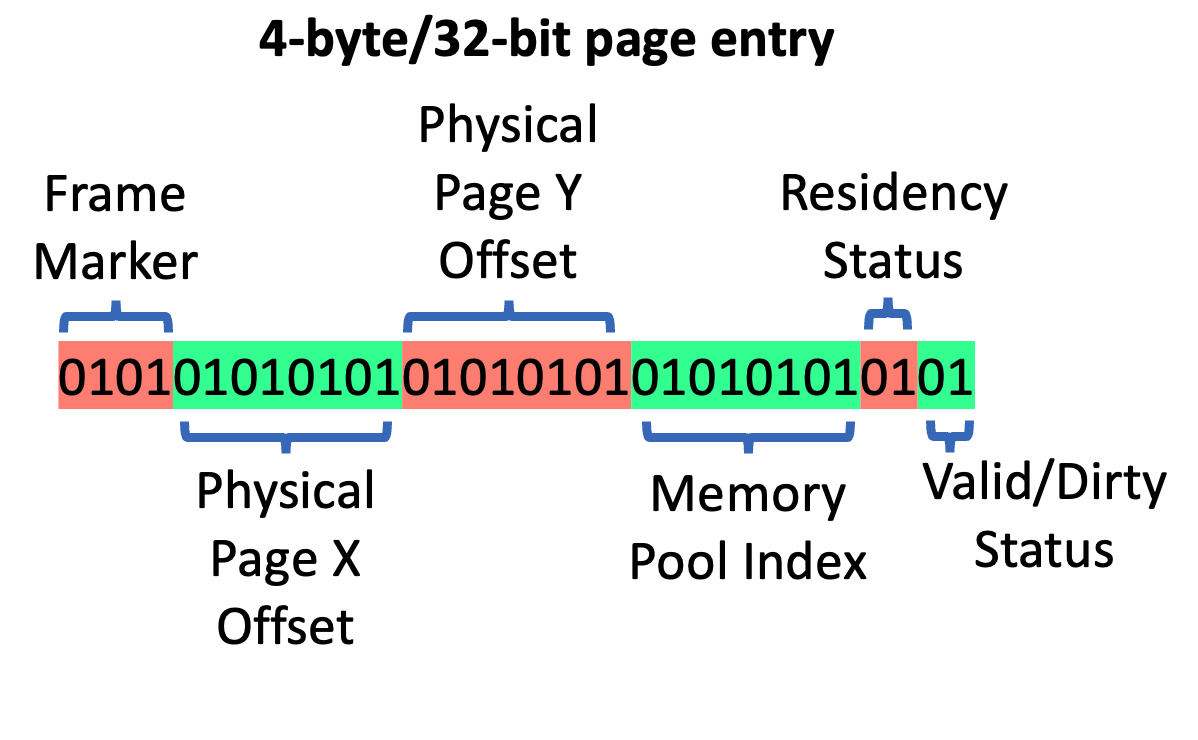
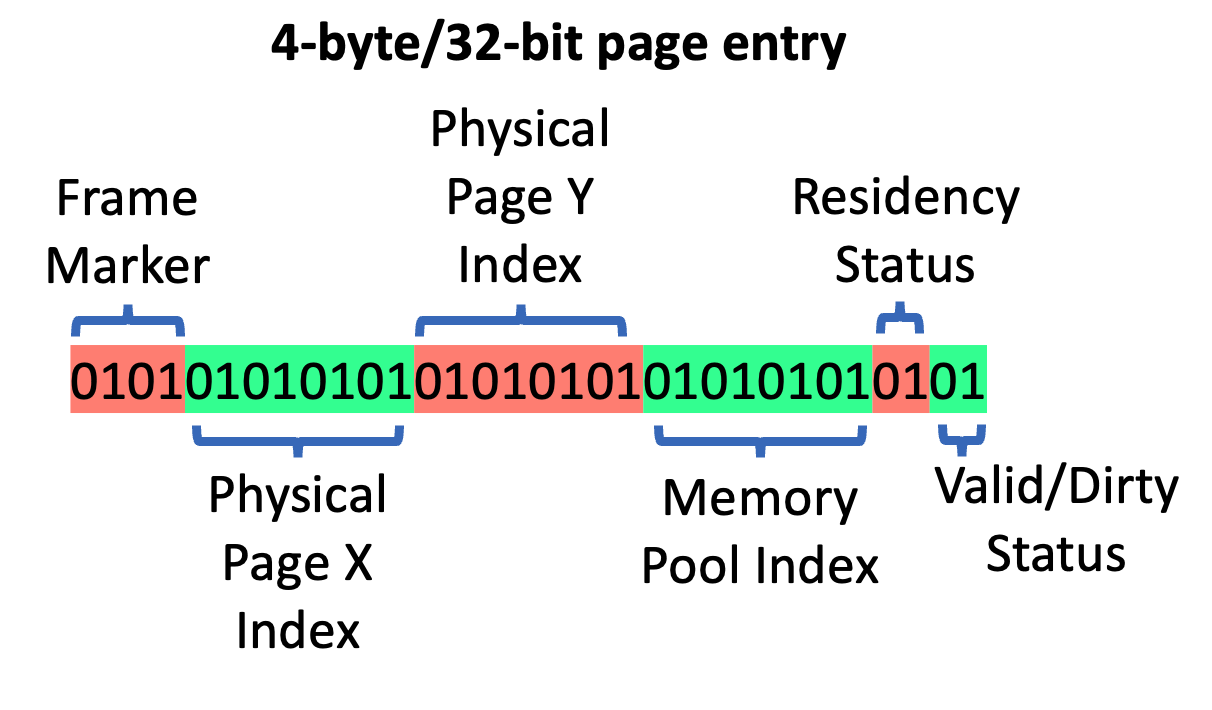
Updates to SVSM article

Changed region(s): [[0.0309, 0.1239, 0.9883, 0.9296], [0.2162, 0.0, 0.7104, 0.093]]

diff --git a/rendering/stratusgfx/svsm.md b/rendering/stratusgfx/svsm.md
@@ -10,8 +10,8 @@ use_math: true
 
 The top is the Bistro scene rendered with multiple 8K resolution sparse virtual shadow maps. The bottom is a visualization of the physical memory pages (squares) where each color represents a different shadow clipmap/cascade.
 
-**This is a WIP/rough draft!**
-**Last edited: Sept 24, 2023.**
+**This is a WIP/rough draft! Feedback is greatly appreciated.**
+**Last edited: Oct 1, 2023**
 
 # Collaborators
 
@@ -26,7 +26,7 @@ This was developed in loose collaboration with:
 
 # Introduction
 
-This post goes through the high-level steps needed to create a sparse virtual memory system for realtime shadows. This was inspired by Unreal Engine 5's virtual shadow maps. Directional lights are the only ones considered here, but it should be possible to extend the system to support other light types such as point or spotlights. 
+This post goes through the high-level steps needed to create a sparse virtual memory system for realtime shadows. This was inspired by Unreal Engine 5's virtual shadow maps. Directional lights are the only ones considered here, but it is possible to extend the system to support other light types such as point or spotlights. 
 
 The directional shadows make use of clipmaps for incremental updating of the shadowmaps and handling multiple different cascades. Each clipmap cascade can be set to very high virtual resolutions such as 4K, 8K or 16K.
 
@@ -54,6 +54,10 @@ The motivations for using this approach fall into two categories:
 An important aspect mentioned in the introduction is that if a cascade doesn't have much geometry inside of it, processing overhead and memory footprint for that cascade can be reduced close to 0. This opens the possibility of maintaining 10, 15 or even 20 cascades. In addition, if the virtual resolution is set to 8K or 16K, every cascade gets its own 8K or 16K virtual shadow map. This allows for high quality, consistent shadows that cover huge world distances.
 
 Standard cascaded shadow maps (CSMs) struggle to handle this without heavy optimization. In many ways sparse virtual shadow maps are an extension of CSMs with the optimizations required to improve memory usage, increase resolution, cover even larger max distances, and avoid duplicate shadow reprocessing for data that hasn't changed since last frame.
+
+### Other Light Types
+
+Even though this article focuses on directional lights, it is possible to virtualize other light types such as point or spotlights. To do this, the shadow maps for each light which use fixed texture allocations will be replaced with virtual shadow textures that are mostly sparse. For point lights this would result in 6 virtual textures (virtual cubemap) each with virtual mipmaps while spotlights would only need 1 virtual texture with virtual mipmaps. Physical backing memory for the virtual shadow textures of all the different light types can come from the same shared texture memory pool.
 
 # Foundations
 
@@ -87,15 +91,19 @@ Directional light shadow maps are represented by a series of expanding rings aro
 
 A clipmap is an incrementally updatable, fixed-size texture region that is meant to represent a subset of a full texture's mipmap chain. A clipmap is defined by a clip origin and a clip size. Together these two determine which part of the full texture that the clipmap currently represents. As the clip origin shifts from frame to frame, new data is streamed in and old data streamed out along the borders of the texture. 
 
-Each clipmap ring is required to cover double the area of the previous clipmap ring meaning that each successive ring is coarser/lower resolution than the previous since the memory footprint remains the same. Because coarser clipmap rings fully overlap finer clipmap rings, we can imagine them as being a version of texture mipmapping.
+Each clipmap ring is required to cover double the area of the previous clipmap ring meaning that each successive ring is coarser/lower resolution than the previous since the memory footprint remains the same for each ring regardless of how much area they cover. Because coarser clipmap rings fully overlap finer clipmap rings, we can conceptualize them as being a version of texture mipmapping.
 
 ![clipmap](/assets/v0.11/svsms/VSM_Clipmap.png)
 
-When sampling from a clipmap, we select the most detailed (lowest ring/cascade) that's available. If not available, we clip to the next best fit.
+![clipmap2](/assets/v0.11/svsms/VSM_Clipmaps_As_Mipmaps.png)
+
+When sampling from a clipmap, we select the most detailed (lowest ring/cascade) that's available. If not available, we clip to the next best fit. Later on this article will discuss the configurable shadow render budget which can lead to situations where we have to fallback to lower resolution data while higher resolution data is processed over multiple frames.
 
 For shadow mapping, we can imagine that the "true" shadow map is something massive like 128K x 128K or more. As the player camera moves around, we will shift the clip origin to match the new camera location and update only the parts that changed.
 
 ![clipshift](/assets/v0.11/svsms/VSM_ClipOrigin.png)
+
+The arrow in the above picture is a 2-component motion vector. If converted to NDC space, it can be used to project from current frame to previous frame or vice versa in order to determine which virtual pages have changed.
 
 ![clipupdate](/assets/v0.11/svsms/VSM_ClipUpdate.png)
 
@@ -226,7 +234,7 @@ Here is a possible implementation of a page table entry (32 bits per entry):
 
 **Frame Marker:** Used for marking the page table entry as in use. 0 means unmarked, 1 means marked this frame, and anything greater than 1 means it was marked a few frames ago but is not currently needed for this frame. This is useful if you want to add a slight frame delay before evicting something from the cache.
 
-**Physical Page Offset X/Y:** Points to the lower-left corner of the physical page in memory. Reconstructing the texel index is done using `Physical Page Offset X/Y * ivec2(128)` where 128 represents texels per page in the x/y direction.
+**Physical Page Index X/Y:** Points to the lower-left corner of the physical page in memory. Reconstructing the lower-left physical texel from the page index is done using `Physical Page Index X/Y * ivec2(128)` where 128 represents texels per page in the x/y direction.
 
 **Memory Pool Index:** This technique works by allocating physical memory from a series of either sparse or shared texture memory pools. In the case of sparse textures, the API allows for making pages resident or non-resident and doing sparse texture binding. In the case of shared texture memory, fixed-size textures are allocated from and returned to the shared texture pool as needed. The memory pool index can either refer to the array index (when using sparse texture arrays) or the texture index (when using separate textures pulled from a shared pool).
 
@@ -584,7 +592,7 @@ In the following gif the lower left shows the first memory pool as it pulls page
 
 Each implementation will need to decide how to deal with the case of a memory pool running out of memory during a given frame. It's possible that more pages will be requested than a single memory pool can handle. One approach would be to trigger a page fault like normal, but the CPU could then allocate a whole new block to pull memory from. Another approach would be to evict pages corresponding to coarser cascades and prioritize putting them in the cascades closer to the camera.
 
-The decision for when to evict a page from the cache is also configurable. The page table has enough bits to count to 15 frames as a delay for evicting a page from the cache, but by default it marks pages free as soon as they are no longer required for a given frame (no delay). The only reason to keep pages in the cache for longer than 1 frame when they aren't being requested is for the situation where the camera pans around, then turns back to face where it was originally facing. In this case the pages it was looking at originally would still be around and not have to be rendered.
+The decision for when to evict a page from the cache is also configurable. The page table has enough bits to count to 15 frames as a delay for evicting a page from the cache, but by default it marks pages free as soon as they are no longer required for a given frame (no delay). One reason to keep them around a longer even when not directly visible is if they are requested by a postprocessing effect. In that situation it is a good idea to only keep the lowest resolution version of the data that the post processing effect needs while freeing other levels.
 
 ### Hardware/API Sparse Memory
 
